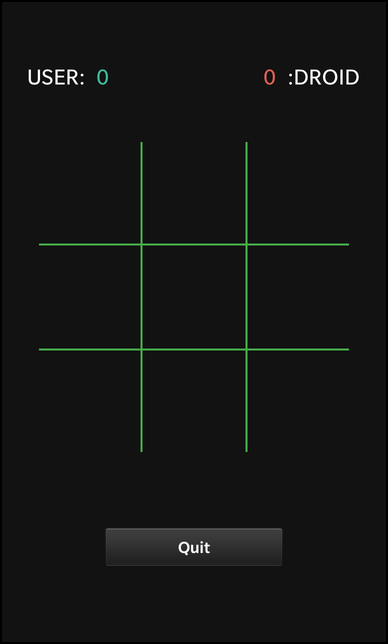
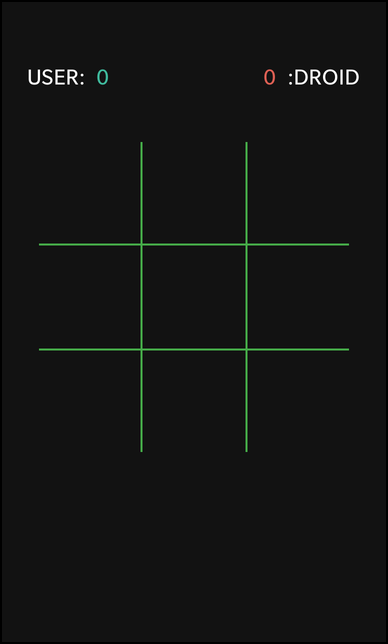
updates to screenshots and removal of service termination

Changed region(s): [[0.2474, 0.8075, 0.7423, 0.8696]]

diff --git a/xandos/assets/main.qml b/xandos/assets/main.qml
@@ -262,20 +262,6 @@ Page {
             }
         }
         //! [3]
-        //! [4]
-        // Button to exit the game at any time
-        Button {
-            bottomPadding: 200
-            bottomMargin: 200
-            horizontalAlignment: HorizontalAlignment.Center
-            verticalAlignment: VerticalAlignment.Bottom
-            text: qsTr("Quit")
-            onClicked: {
-                _xandos.stopDroid()
-                Application.requestExit()
-            }
-        }
-        //! [4]
     }
     attachedObjects: [
         //! [5]

diff --git a/xandosdroid/src/xandosdroid.cpp b/xandosdroid/src/xandosdroid.cpp
@@ -49,6 +49,8 @@ xandosdroid::xandosdroid(bb::Application *parent)
 }
 //! [1]
 xandosdroid::~xandosdroid() {
+    m_clientSocket->close();
+    m_clientSocket->deleteLater();
 }
 //! [2]
 void xandosdroid::onInvoked(const bb::system::InvokeRequest& request) {
@@ -153,6 +155,7 @@ void xandosdroid::connected() {
 
 void xandosdroid::disconnected() {
     m_clientSocket->close();
+    resetGame();
 }
 //! [6]
 int xandosdroid::nextMove(int player) {
@@ -179,10 +182,14 @@ int xandosdroid::nextMove(int player) {
 //! [7]
 inline void xandosdroid::terminateDroid() {
     qDebug() << "XandOsDroid: terminating droid";
-    m_clientSocket->close();
-    m_clientSocket->deleteLater();
-    if (!m_app->requestExit()) {
-        qDebug() << "XandOsDroid: error trying to terminate droid";
-    }
+    resetGame();
 }
 //! [7]
+void xandosdroid::resetGame() {
+    for (int i = 0; i < 9; i++) {
+        m_possibilities[i][8] = 0;
+        if (i < 8) {
+            m_gameMatrix[i] = 0;
+        }
+    }
+}

diff --git a/xandosdroid/src/xandosdroid.hpp b/xandosdroid/src/xandosdroid.hpp
@@ -99,6 +99,8 @@ private:
      */;
     inline void terminateDroid();
 
+    void resetGame();
+
     // The grid matrix containing the winning possibilities for each cell
     static int m_possibilities[9][9];
 
